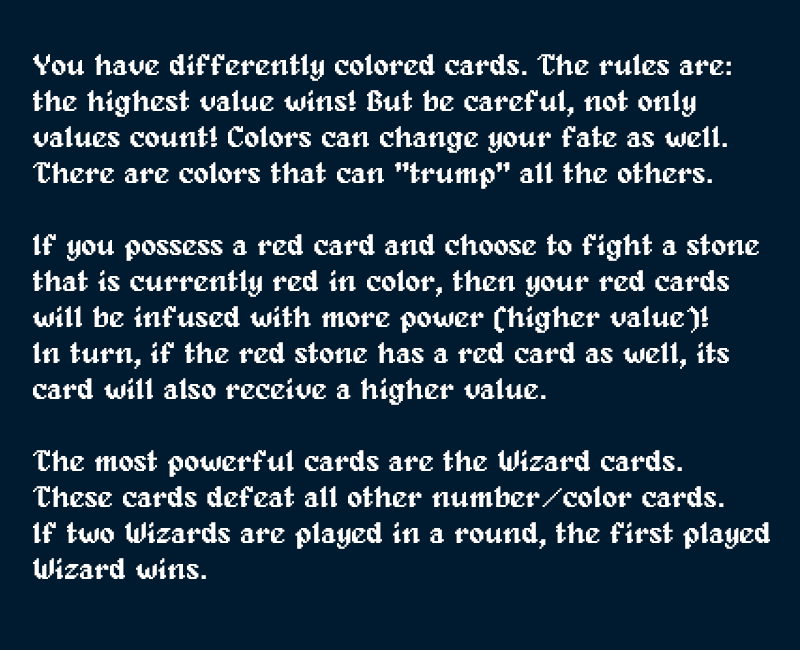
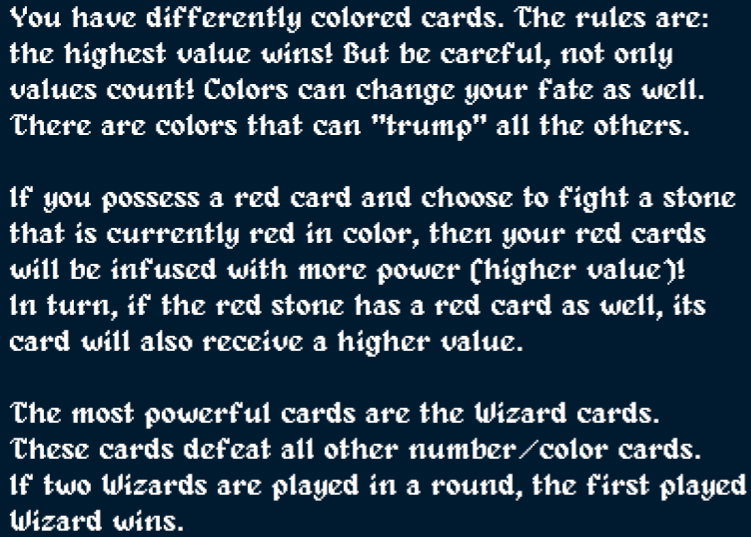
HelpScenes sind durchklickbar

diff --git a/src/main/resources/style.css b/src/main/resources/style.css
@@ -3,7 +3,17 @@
     src: url('assets/fonts/alagard.ttf');
 }
 
-.button .text {
+.button .text{
     -fx-font-family: 'Alagard';
-    -fx-font-size: 20px;
+    -fx-font-size: 30px;
+}
+
+.label{
+    -fx-font-family: 'Alagard';
+    -fx-font-size: 30px;
+    -fx-text-fill: #ffffff;
+}
+
+.text-area *.content {
+    -fx-background-color: #072130;
 }

diff --git a/src/main/java/com/ducky/duckythewizard/StartSceneController.java b/src/main/java/com/ducky/duckythewizard/StartSceneController.java
@@ -13,34 +13,40 @@ import javafx.stage.Stage;
 
 public class StartSceneController {
     private Stage stage;
-    private Scene scene;
     private Parent root;
+
+    String css = Objects.requireNonNull(this.getClass().getResource("/style.css")).toExternalForm();
 
     public StartSceneController() {
     }
 
-    public void switchToHelpScene1(ActionEvent event) throws IOException {
-        Parent root = (Parent)FXMLLoader.load((URL)Objects.requireNonNull(this.getClass().getResource("helpScene1.fxml")));
+    private void getWindowStage(ActionEvent event, Parent root) {
         this.stage = (Stage)((Node)event.getSource()).getScene().getWindow();
-        this.scene = new Scene(root);
-        this.stage.setScene(this.scene);
+        Scene scene = new Scene(root);
+        setCss(scene);
+        this.stage.setScene(scene);
         this.stage.show();
     }
 
+    private void setCss(Scene scene) {
+        scene.getStylesheets().clear();
+        scene.getStylesheets().add(css);
+    }
+
+    public void switchToHelpScene1(ActionEvent event) throws IOException {
+        Parent root = (Parent)FXMLLoader.load((URL)Objects.requireNonNull(this.getClass().getResource("helpScenes/helpScene1.fxml")));
+        getWindowStage(event, root);
+    }
+
+
     public void switchToHelpScene2(ActionEvent event) throws IOException {
-        Parent root = (Parent)FXMLLoader.load((URL)Objects.requireNonNull(this.getClass().getResource("helpScene2.fxml")));
-        this.stage = (Stage)((Node)event.getSource()).getScene().getWindow();
-        this.scene = new Scene(root);
-        this.stage.setScene(this.scene);
-        this.stage.show();
+        Parent root = (Parent)FXMLLoader.load((URL)Objects.requireNonNull(this.getClass().getResource("helpScenes/helpScene2.fxml")));
+        getWindowStage(event, root);
     }
 
     public void switchToHelpScene3(ActionEvent event) throws IOException {
-        Parent root = (Parent)FXMLLoader.load((URL)Objects.requireNonNull(this.getClass().getResource("helpScene3.fxml")));
-        this.stage = (Stage)((Node)event.getSource()).getScene().getWindow();
-        this.scene = new Scene(root);
-        this.stage.setScene(this.scene);
-        this.stage.show();
+        Parent root = (Parent)FXMLLoader.load((URL)Objects.requireNonNull(this.getClass().getResource("helpScenes/helpScene3.fxml")));
+        getWindowStage(event, root);
     }
 
     public void endHelpScene(ActionEvent event) throws IOException {
